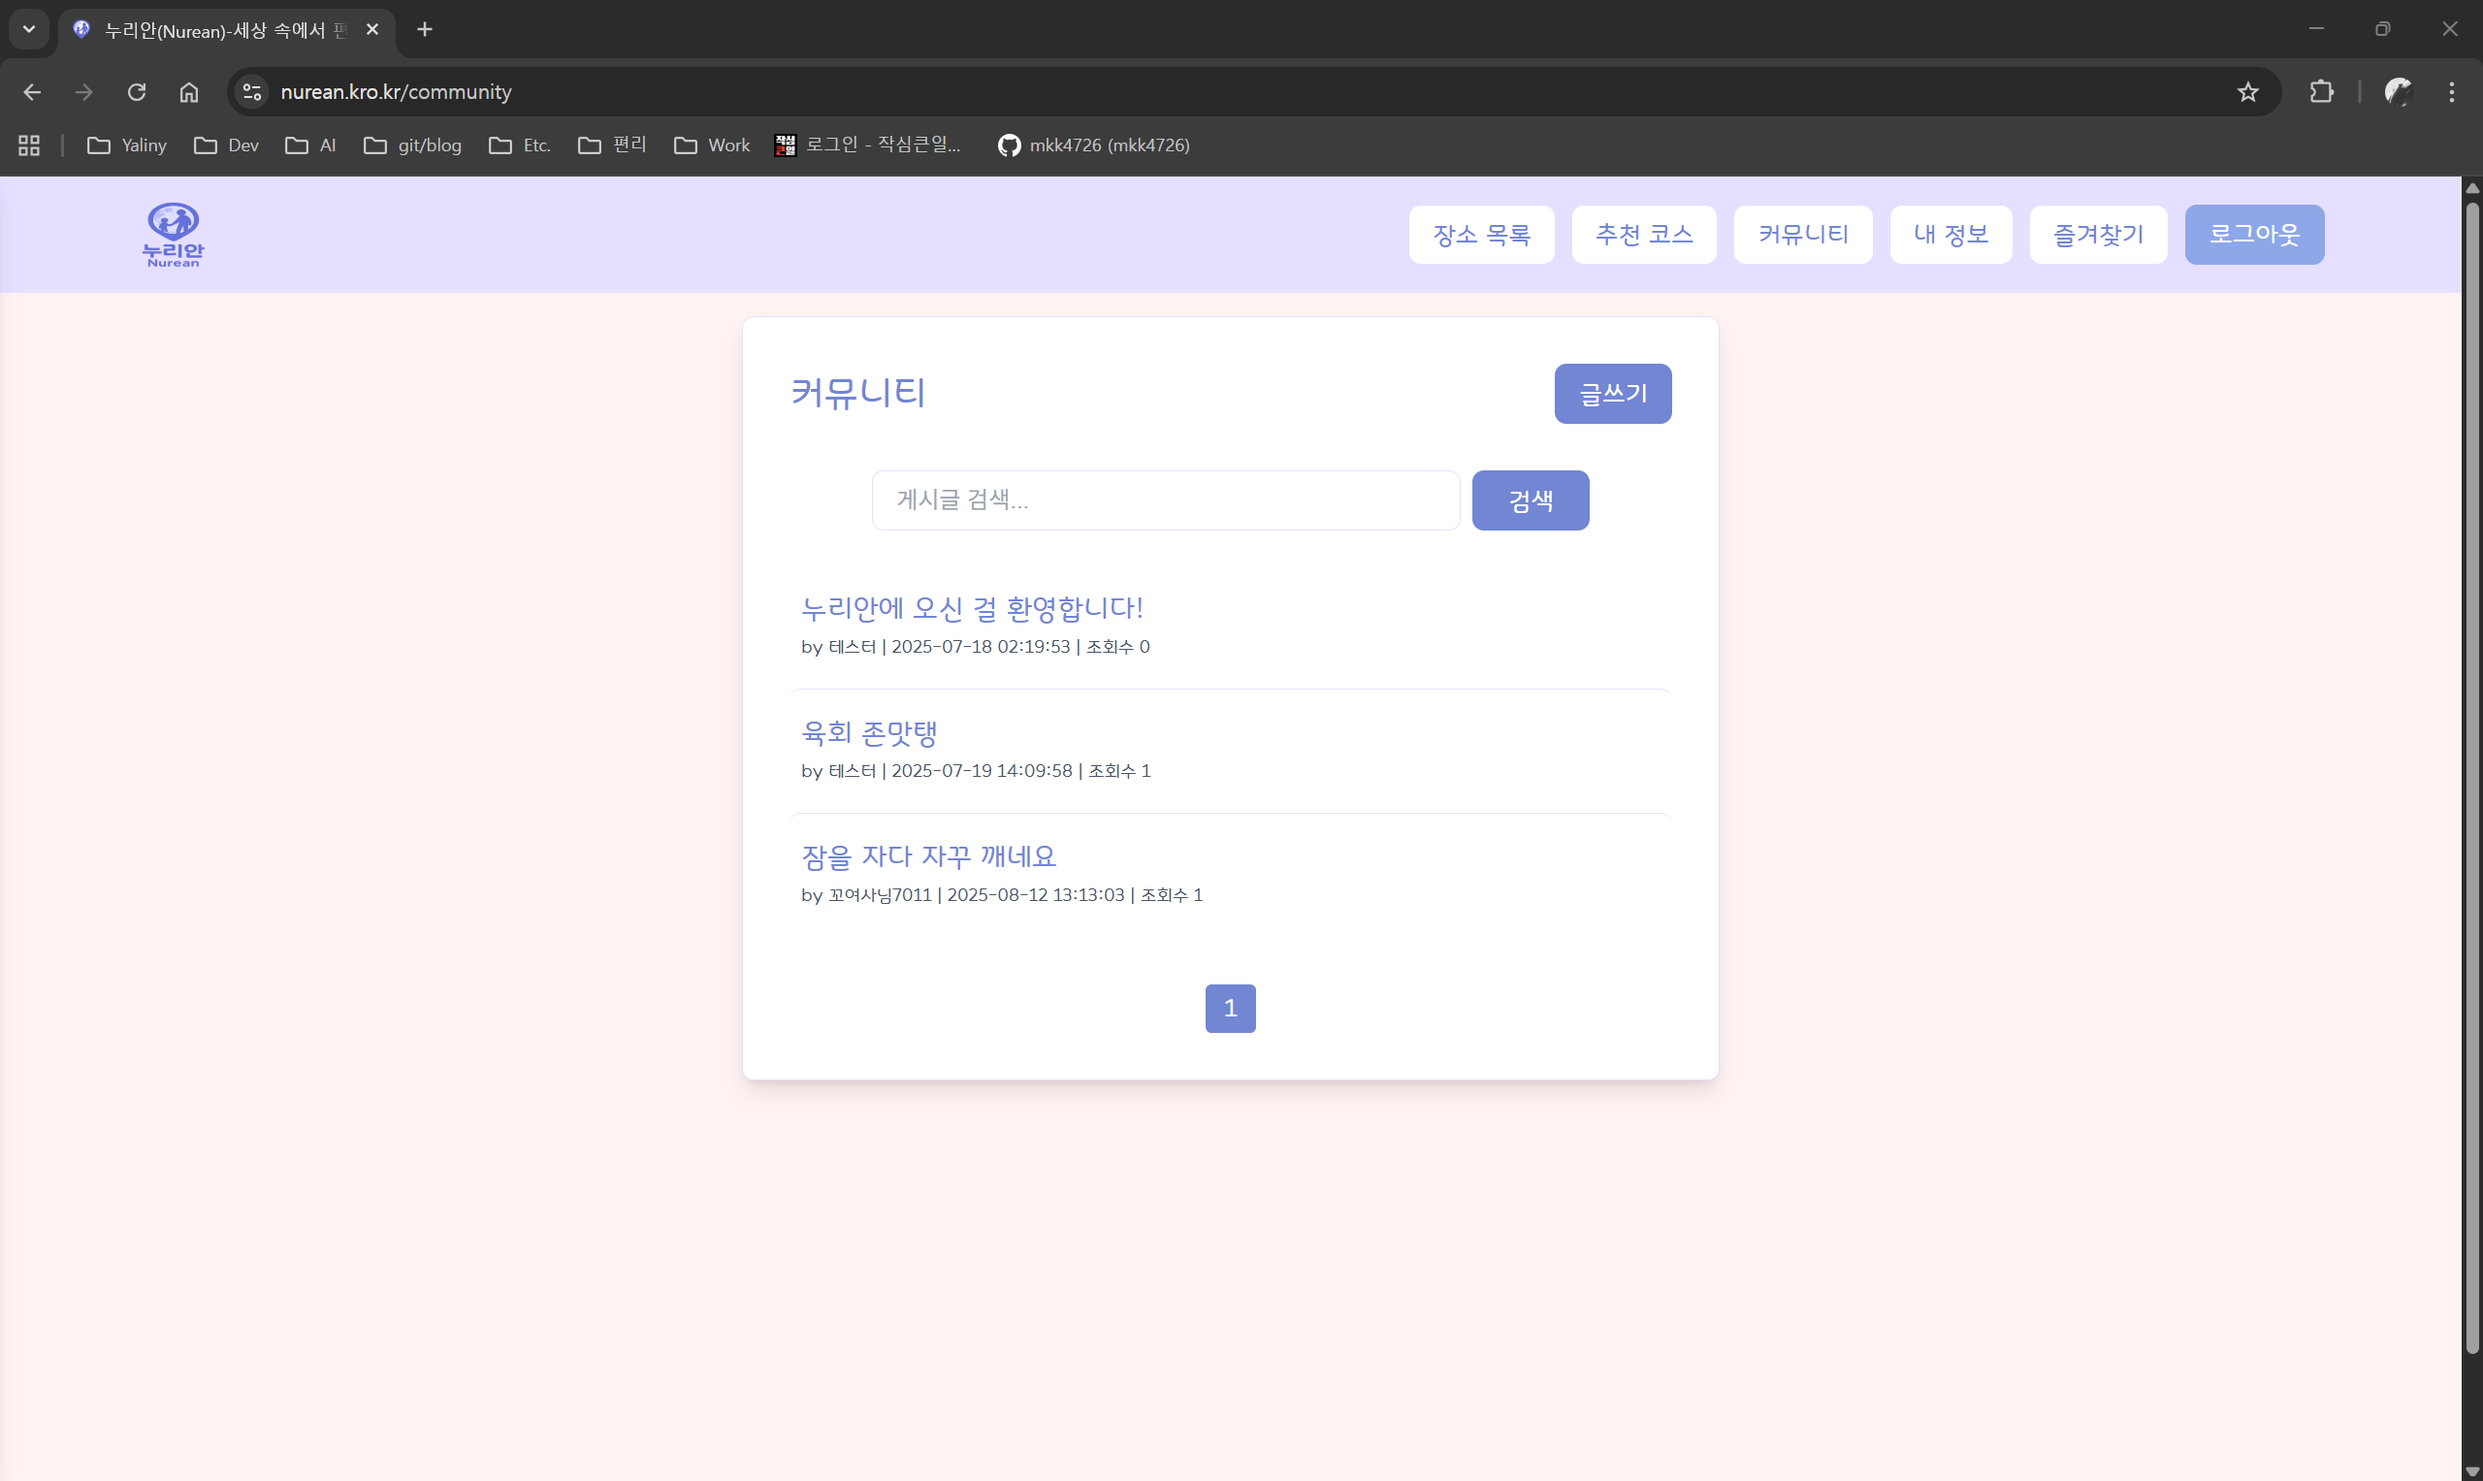
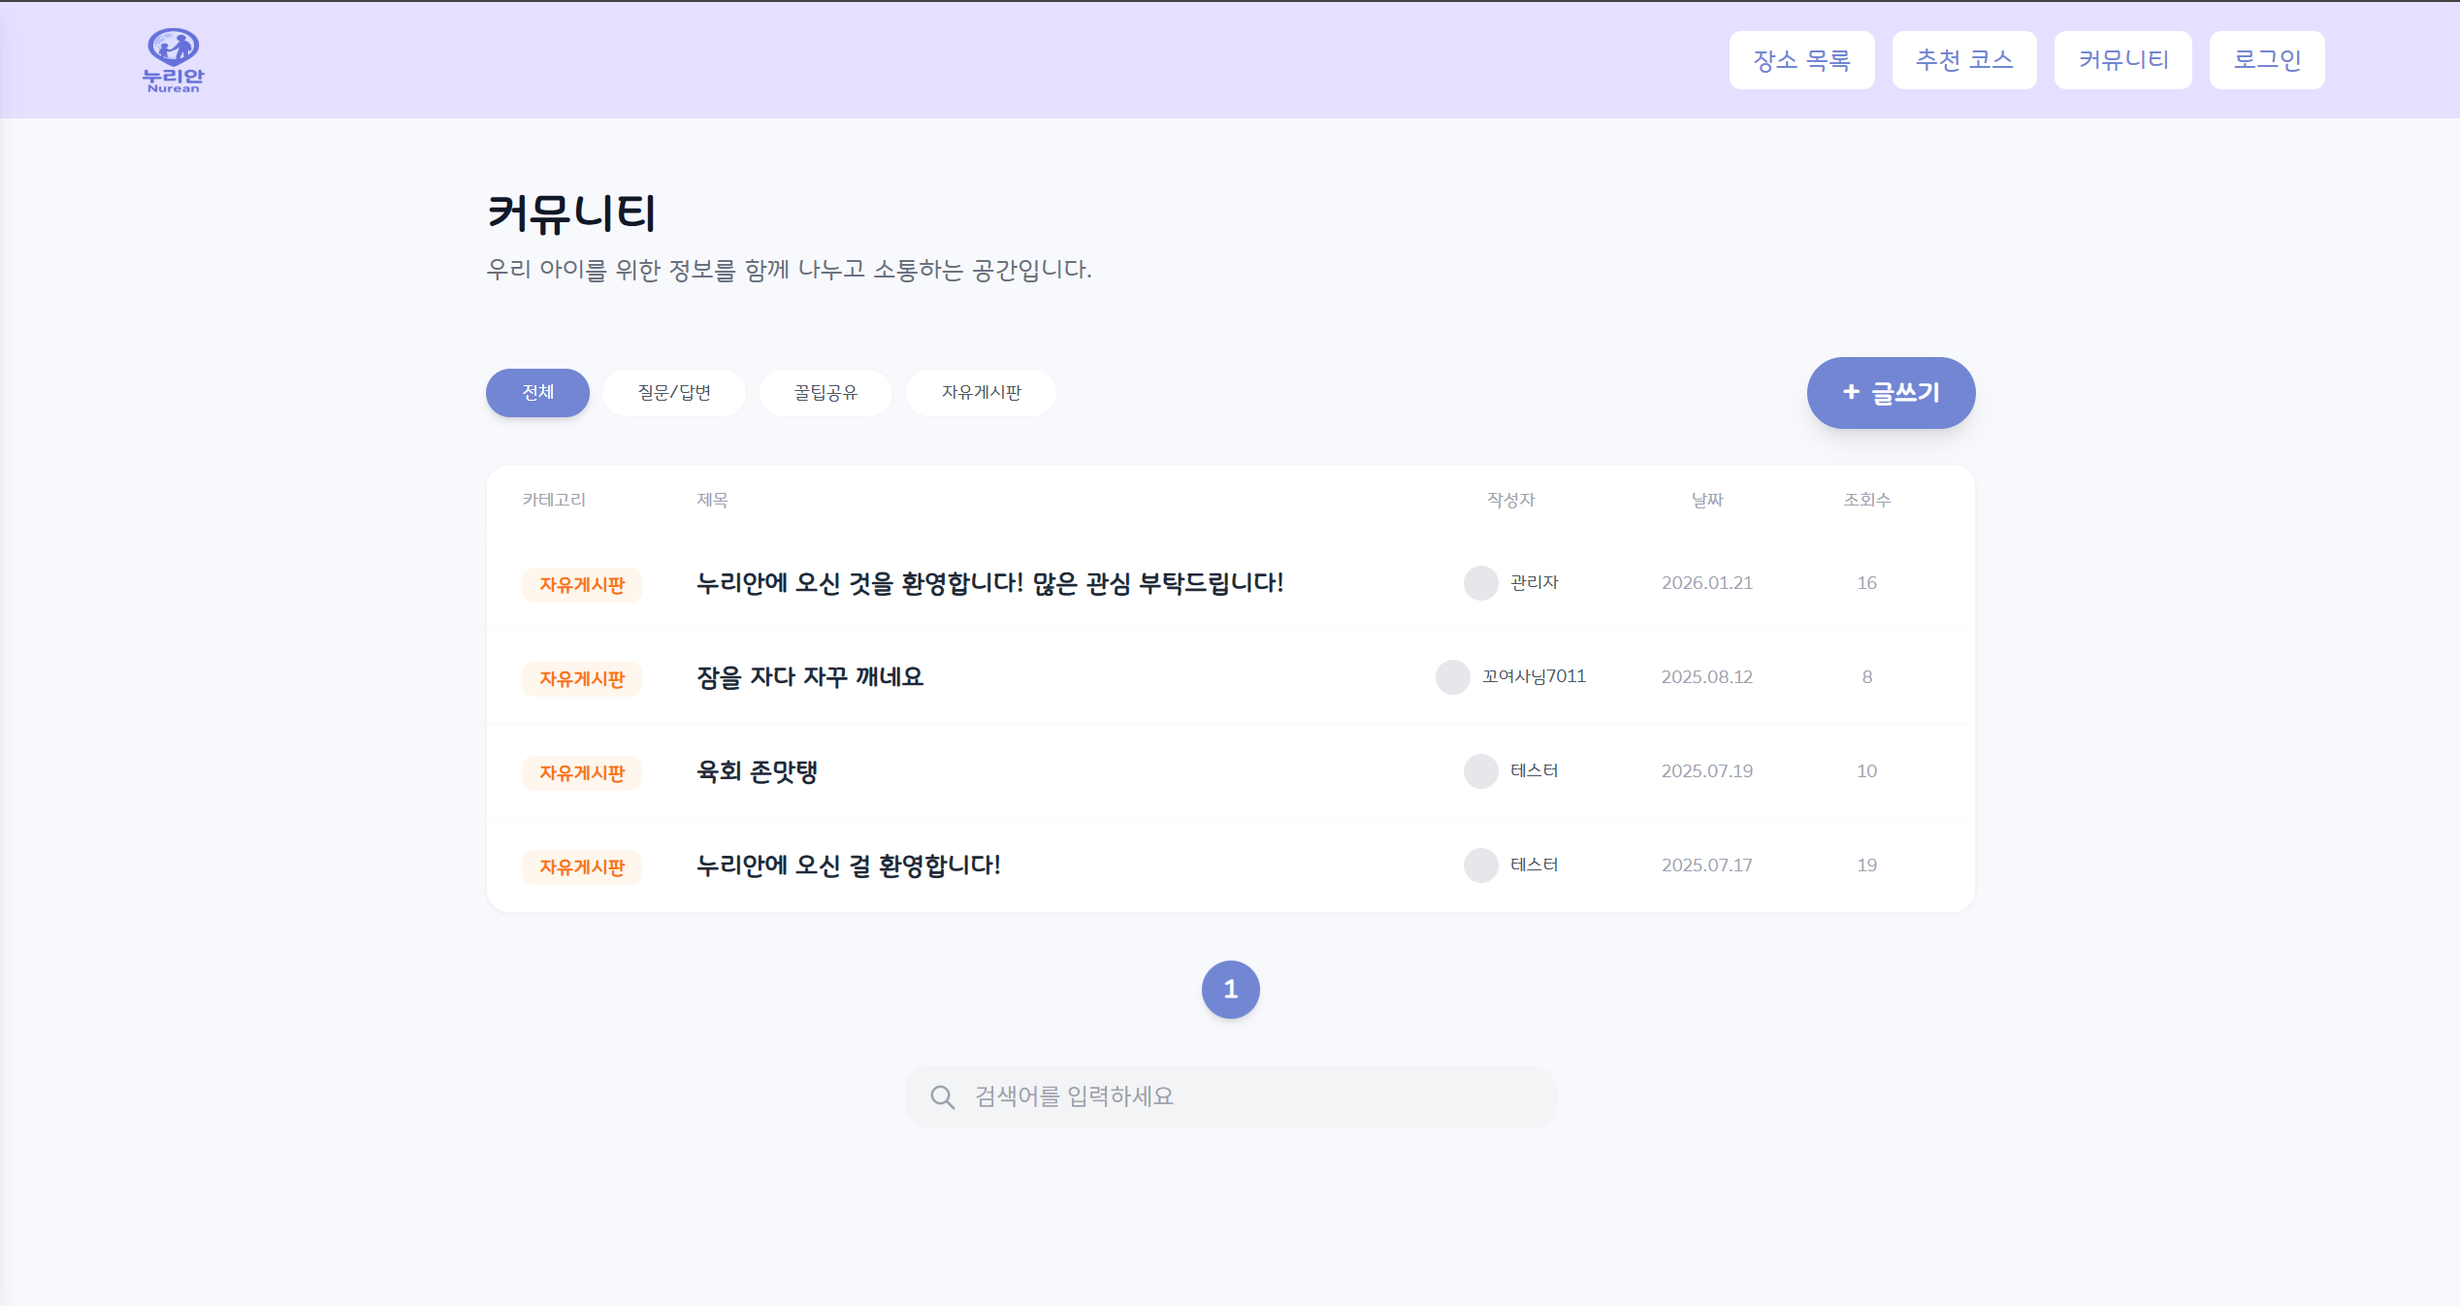
doc: README Update

diff --git a/README.md b/README.md
@@ -17,9 +17,10 @@
 <p align="center">
   <img src="image/메인.png" alt="메인 화면 미리보기" width="600"/><br>
   <img src="image/로그인.png" alt="로그인 화면 미리보기" width="600"/><br>
-  <img src="image/장소상세.png" alt="장소 상세 화면 미리보기" width="600"/><br>
+  <img src="image/장소상세.png" alt="장소 상세 화면 미리보기" width="400"/><br>
   <img src="image/커뮤니티.png" alt="커뮤니티 화면 미리보기" width="600"/><br>
-  <img src="image/게시글과댓글.png" alt="게시글과 댓글 화면 미리보기" width="600"/><br>
+  <img src="image/커뮤니티상세1.png" alt="게시글과 댓글 화면 미리보기" width="600"/><br>
+  <img src="image/커뮤니티상세2.png" alt="게시글과 댓글 화면 미리보기" width="600"/><br>
 </p>
 
 ---
